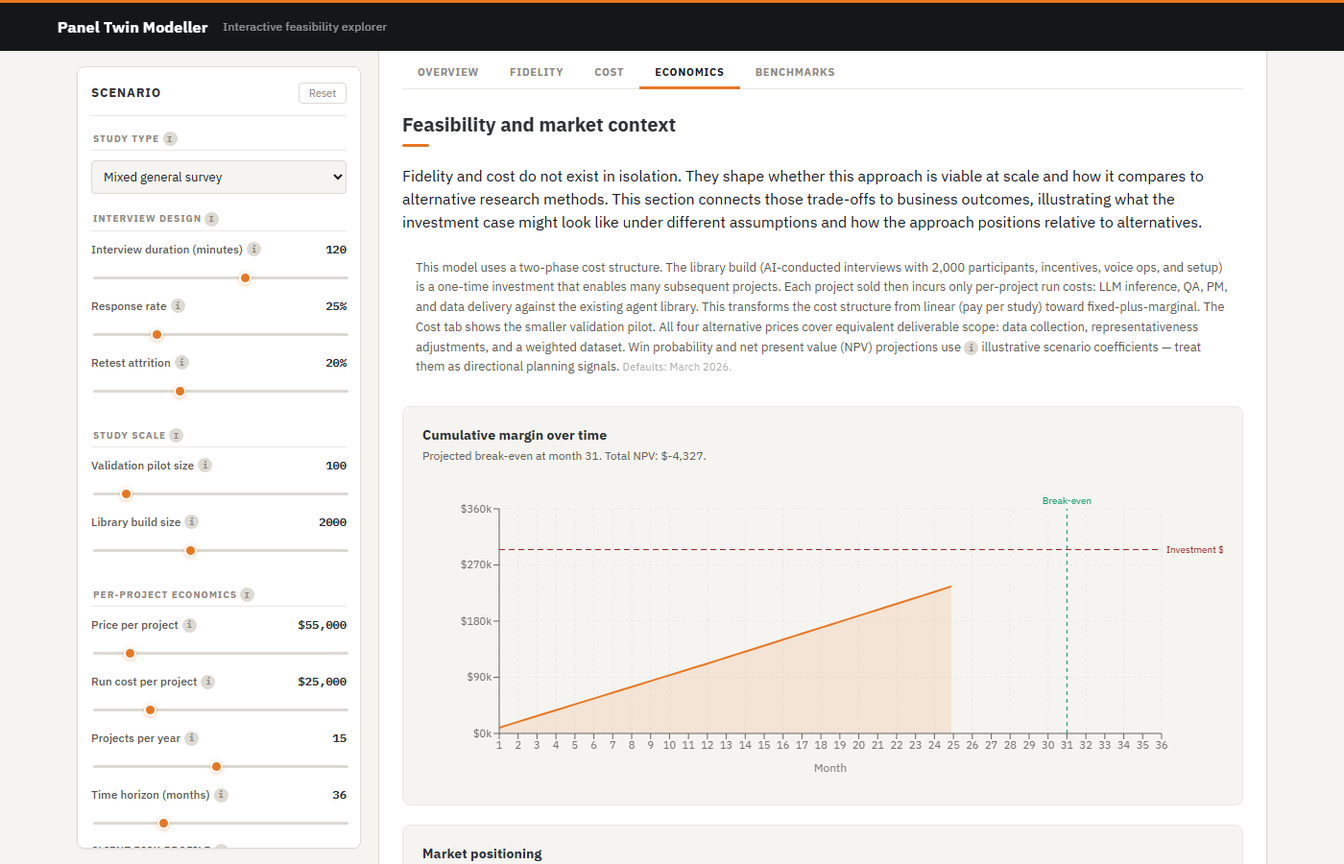
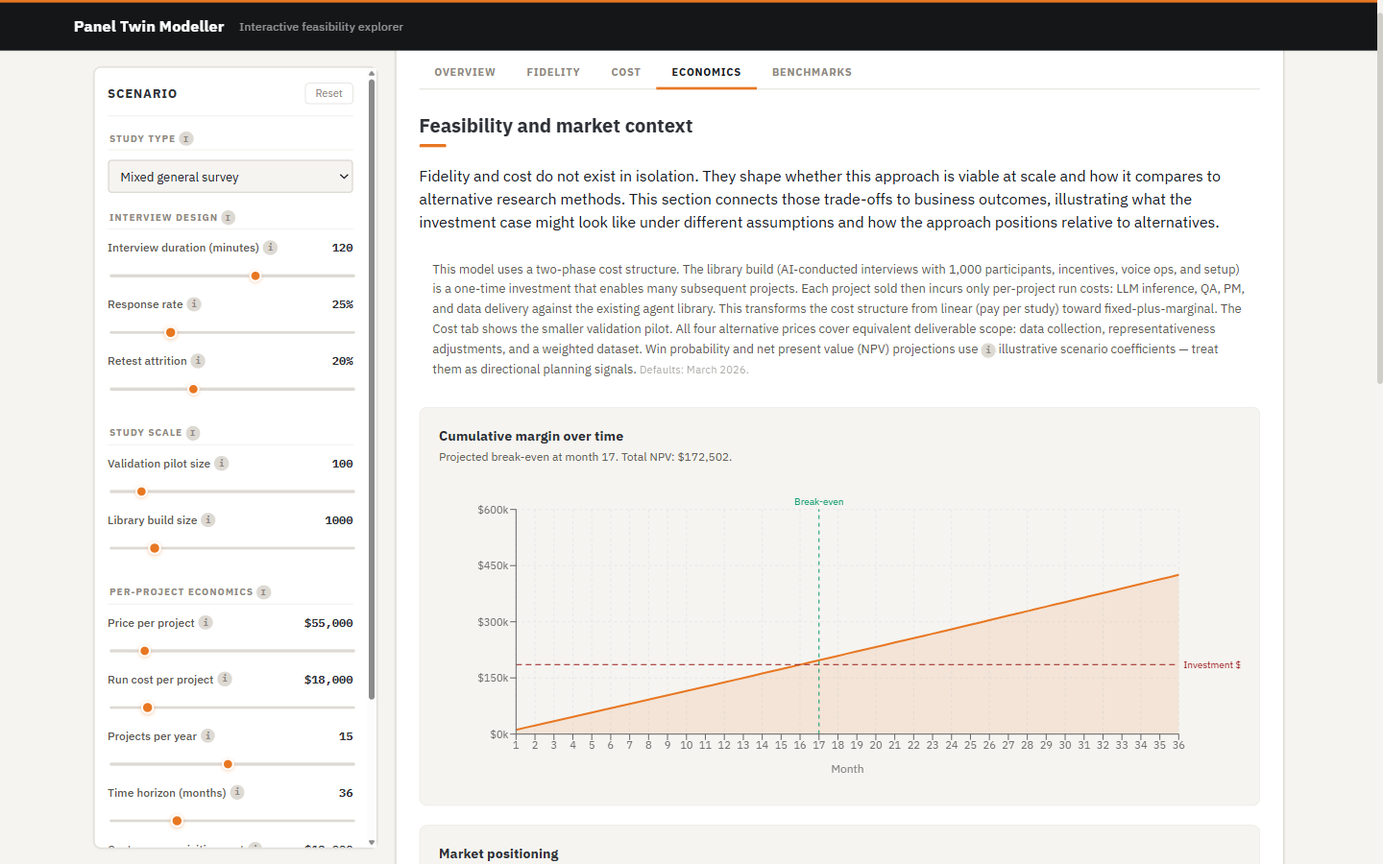
Expose hidden params as sliders, recalibrate defaults, fix tooltips (v0.2.9)
Default recalibrations: scaleup_n 2000→1000, per_project_run_cost $25K→$18K,
cac $20K→$12K. Split total_labor_cost into pilot_labor_cost ($15K) and
library_labor_cost ($45K) with mode-aware selection in costModel.ts.

Seven previously hidden parameters now have sliders: cac, retest_rate,
discount_rate, growth_rate, churn_rate, brand_trust, cannibalization_rate.
Added Financial assumptions fieldset; renamed Market benchmarks → Market context.

Tooltip fixes: labor sliders (removed misleading scaling/IRB copy), per-interview
costs (disclose $20/participant in fixed hidden costs), run cost (removed stale
range), EconomicsTab note (discount rate now configurable in Advanced).

Stale landing page copy corrected: Insight 4 library size 2000→1000 with
corrected savings figures; Insight 6 margin ~55%→~67%. Hero screenshot updated.

diff --git a/docs-app/src/components/ExecutiveLanding.tsx b/docs-app/src/components/ExecutiveLanding.tsx
@@ -13,31 +13,31 @@ interface InsightDef {
 const INSIGHTS: InsightDef[] = [
   {
     title: "Participant incentives dominate build cost — compute is nearly free",
-    summary: "At 2,000 participants, incentives alone total $178K out of a ~$275K library build. LLM inference for those same 2,000 interviews costs roughly $220. The binding constraint is human compensation, not technology.",
+    summary: "At 1,000 participants, incentives alone total $89K out of a ~$174K library build. LLM inference for those same 1,000 interviews costs roughly $111. The binding constraint is human compensation, not technology.",
     methodology: [
-      "Incentive structure: $60 Phase 1 interview + ($30 × 0.8 retest rate) Phase 2 + $5 bonus = $89 per participant. At 2,000 participants: $178,000 — roughly 64% of the total library build cost.",
-      "LLM inference for 2,000 interviews at 117 turns each: roughly $222 total at $0.003/1K input, $0.012/1K output tokens. Voice ops (automatic speech recognition and text-to-speech, at $0.027/min × 120 min) add $6,480. Staff cost (lump sum, $18,000 default) adds a flat amount per study run — adjust in Advanced settings.",
-      "Per-project run cost once the library exists: LLM inference to run a 50-item survey through 2,000 agents costs roughly $300–500. At loaded labor rates for QA, PM, and data delivery, total run cost is estimated at $20,000–30,000 — about 7–11% of the library build cost.",
+      "Incentive structure: $60 Phase 1 interview + ($30 × 0.8 retest rate) Phase 2 + $5 bonus = $89 per participant. At 1,000 participants: $89,000 — roughly 51% of the total library build cost.",
+      "LLM inference for 1,000 interviews at 117 turns each: roughly $111 total at $0.003/1K input, $0.012/1K output tokens. Voice ops (ASR and TTS, at $0.027/min × 120 min) add $3,240. Staff cost for the library build ($45,000 default) and overhead together add ~$59K flat — adjust in Advanced settings.",
+      "Per-project run cost once the library exists: LLM inference to run a 50-item survey through 1,000 agents costs roughly $150–250. At loaded labor rates for QA, PM, and data delivery, total run cost is estimated at $18,000 (default) — about 10% of the library build cost.",
       "Implication: the technology cost curve is not the binding constraint. LLM price changes have minimal impact on the investment case. Response rate and incentive levels have major impact. Scale decisions (how many participants) are primarily a human cost question.",
     ],
   },
   {
     title: "The cost structure transforms from linear to fixed-plus-marginal",
-    summary: "Traditional survey research charges per-study fees for every project. Panel Twin separates a one-time library build (~$275K for 2,000 participants) from a lower marginal per-project run cost (~$25K). This is the same cost-structure shift that distinguishes SaaS from consulting.",
+    summary: "Traditional survey research charges per-study fees for every project. Panel Twin separates a one-time library build (~$174K for 1,000 participants) from a lower marginal per-project run cost (~$18K). This is the same cost-structure shift that distinguishes SaaS from consulting.",
     methodology: [
       "Library build cost covers AI-conducted interviews, participant incentives, voice infrastructure, agent construction, setup labor, and overhead. This is a capital investment charged once (or per refresh cycle), not per project.",
-      "Per-project run cost covers LLM inference, per-project QA, PM, and data delivery against the existing agent library. No new interviews or incentives. Default estimate: $25,000 per project at fully loaded labor rates.",
-      "With ~55% variable margin per project (at $55K price, $25K run cost), the break-even on the library investment depends on project volume over the library's useful life. At 6 projects/year, rough break-even is within 9–11 projects.",
+      "Per-project run cost covers LLM inference, per-project QA, PM, and data delivery against the existing agent library. No new interviews or incentives. Default estimate: $18,000 per project at fully loaded labor rates.",
+      "With ~67% variable margin per project (at $55K price, $18K run cost), the break-even on the library investment depends on project volume over the library's useful life. At default volume (15 projects/year), the investment recovers after roughly 5 projects won — about 17 months.",
       "The critical open question is library useful life: how many projects can run before agent profiles go stale and re-interviewing is needed. The model cannot answer this — it is an open empirical question. The NPV projections are conditional on the library remaining valid.",
     ],
   },
   {
     title: "Project volume is the primary NPV lever — not per-project margin",
-    summary: "Gross margin per project is decent (~55%), but win probability in a four-way market is only ~37%. At 15 projects pursued per year (the default), the investment breaks even around month 30. Cut that in half and break-even moves outside the 36-month horizon — volume matters more than what you charge per project.",
+    summary: "Gross margin per project is ~67%, but win probability in a four-way market is only ~36%. At 15 projects pursued per year (the default), the investment breaks even around month 17. Reduce to fewer than 7 projects/year and break-even moves outside the 36-month horizon — volume matters more than what you charge per project.",
     methodology: [
-      "Win probability ~37% in the default four-way market. Net-new fraction 70% (30% cannibalization). Per-project margin $30,000 ($55K price minus $25K run cost). At 15 projects pursued per year, expected monthly margin is roughly $9,700 before discounting. Over 36 months cumulative margin approaches $350,000 against ~$295,000 upfront, with break-even around month 30.",
-      "A non-probability panel at $5K captures ~39% of the market on price alone under the stylized utility coefficients. Panel Twin must win on quality and turnaround, not price. Since quality has the highest utility weight (3.2), this is achievable — but only if quality thresholds are cleared.",
-      "The model is sensitive to projects_per_year because wins scale linearly with volume but the upfront investment is fixed. Reducing to 8–10 projects per year moves break-even outside the 36-month horizon. Use the explorer to find the volume and pricing combination that makes the investment case work for your scenario.",
+      "Win probability ~36% in the default four-way market. Net-new fraction 70% (30% cannibalization). Per-project margin $37,000 ($55K price minus $18K run cost). At 15 projects pursued per year, expected monthly margin is roughly $11,500 before discounting. Over 36 months cumulative margin approaches $425,000 against ~$186,000 upfront, with break-even around month 17.",
+      "A non-probability panel at $5K captures ~40% of the market on price alone under the stylized utility coefficients. Panel Twin must win on quality and turnaround, not price. Since quality has the highest utility weight (3.2), this is achievable — but only if quality thresholds are cleared.",
+      "The model is sensitive to projects_per_year because wins scale linearly with volume but the upfront investment is fixed. Reducing to fewer than 7 projects per year moves break-even outside the 36-month horizon. Use the explorer to find the volume and pricing combination that makes the investment case work for your scenario.",
       "These projections use stylized market utility coefficients, not historical win/loss data. Actual win rates depend on client relationships, proposal quality, pricing negotiations, and factors not captured in a logit model. Treat NPV as a directional planning signal, not a forecast.",
     ],
   },
@@ -46,7 +46,7 @@ const INSIGHTS: InsightDef[] = [
     summary: "Quality improves logarithmically with interview length — the first hour contributes more than the second. For mixed general and behavioral recall surveys, most gain over a 30-minute baseline is captured by 60–90 minutes. Beyond 120 minutes, incremental quality is small while build cost keeps rising linearly.",
     methodology: [
       "Quality is modeled as base × log-linear adjustment relative to a 120-minute reference point (the genagents interview length). The log functional form reflects diminishing marginal returns on additional interview time. This is a modeling assumption; the actual sensitivity has not been directly measured for this construction approach.",
-      "Interview duration drives build cost linearly (voice ops at $0.027/min per participant). At 120 min vs. 90 min: $0.027 × 30 min = $0.81/participant, or $1,620 saved on a 2,000-person library. At 120 vs. 60 min: $3,240 saved. These are modest but real trade-offs.",
+      "Interview duration drives build cost linearly (voice ops at $0.027/min per participant). At 120 min vs. 90 min: $0.027 × 30 min = $0.81/participant, or $810 saved on a 1,000-person library. At 120 vs. 60 min: $1,620 saved. These are modest but real trade-offs.",
       "Under default settings (mixed general survey), the quality threshold is typically cleared well before 90 minutes. The threshold crossover depends on study type, memory architecture, and benchmark mode. Under federal settings, longer interviews provide more buffer above the stricter threshold.",
       "Extrapolating outside the 60–150 minute range carries higher uncertainty. Very short interviews (30 min) represent a significant departure from the paper anchor and should be treated as speculative.",
     ],
@@ -70,9 +70,9 @@ const INSIGHTS: InsightDef[] = [
   },
   {
     title: "The main uncertainty is now library longevity, not project margin",
-    summary: "With ~55% variable margin per project, the investment case is meaningful once the library is built. The dominant open question has shifted: how long does an agent library remain valid before agents need re-interviewing? The model tracks net present value (NPV) but cannot estimate agent shelf life.",
+    summary: "With ~67% variable margin per project, the investment case is meaningful once the library is built. The dominant open question has shifted: how long does an agent library remain valid before agents need re-interviewing? The model tracks net present value (NPV) but cannot estimate agent shelf life.",
     methodology: [
-      "At ~55% variable margin, win probability sensitivity has a meaningful but not dominant NPV impact. Small changes in win rate shift the timeline to break-even but do not change the direction of the investment case under reasonable assumptions.",
+      "At ~67% variable margin, win probability sensitivity has a meaningful but not dominant NPV impact. Small changes in win rate shift the timeline to break-even but do not change the direction of the investment case under reasonable assumptions.",
       "Library useful life is the dominant uncertainty. As real participants' views evolve over time, agent responses gradually diverge from what those participants would currently say. The rate of this divergence — and when it crosses a meaningful threshold — has no published estimates for this construction approach.",
       "The current model does not include refresh wave revenue or operational costs, because the trigger conditions for re-interviewing are not yet estimable. The cost of a partial re-interview campaign depends on how many agents need updating and whether source participants remain reachable.",
       "Monte Carlo simulations draw uncertainty from interview duration, response rate, and attrition. Library longevity uncertainty is not included because there is no distributional basis for it yet. This means the MC output understates total uncertainty for projections beyond 12–18 months.",
@@ -337,7 +337,7 @@ export function ExecutiveLanding({ onEnterExplorer }: Props) {
       <section className="landing-section">
         <h2>Headline numbers at default settings</h2>
         <p className="landing-section-intro">
-          120-minute AI voice interviews, mixed general survey (attitudes, opinions, and behavioral recall combined). The library build (2,000 participants) is a one-time investment. Per-project run cost reflects ongoing marginal cost once the library exists. All figures are model estimates at default parameter values — adjust the controls in the explorer to explore your scenario.
+          120-minute AI voice interviews, mixed general survey (attitudes, opinions, and behavioral recall combined). The library build (1,000 participants) is a one-time investment. Per-project run cost reflects ongoing marginal cost once the library exists. All figures are model estimates at default parameter values — adjust the controls in the explorer to explore your scenario.
         </p>
         <div className="landing-kpis">
           <div className="landing-kpi">
@@ -348,7 +348,7 @@ export function ExecutiveLanding({ onEnterExplorer }: Props) {
             <div className="landing-kpi-value">${Math.round(baseStats.libraryBuildCost / 1000)}k</div>
             <div className="landing-kpi-label">
               Library build cost{' '}
-              <Tooltip content={`One-time cost to interview 2,000 participants, construct their agents, and set up infrastructure. After this investment, projects run against the existing library at much lower marginal cost.`}>
+              <Tooltip content={`One-time cost to interview 1,000 participants, construct their agents, and set up infrastructure. After this investment, projects run against the existing library at much lower marginal cost.`}>
                 <span className="info-icon" aria-hidden="true">i</span>
               </Tooltip>
             </div>

diff --git a/docs-app/src/components/ScenarioControls.tsx b/docs-app/src/components/ScenarioControls.tsx
@@ -125,7 +125,7 @@ export function ScenarioControls({
           min={5000} max={100000} step={1000}
           onChange={(v) => updateRevenue('per_project_run_cost', v)}
           format={money}
-          tooltip="Marginal cost of running one survey project against the existing library. Covers LLM inference, per-project QA, PM, and data delivery. No new interviews or participant incentives — those are part of the library build. Typically $20,000–$30,000 per project."
+          tooltip="Marginal cost of running one survey project against the existing library. Covers LLM inference, per-project QA, PM, and data delivery. No new interviews or participant incentives — those are part of the library build."
         />
         <Slider
           label="Projects per year"
@@ -140,6 +140,14 @@ export function ScenarioControls({
           min={6} max={120} step={3}
           onChange={(v) => updateRevenue('horizon_months', v)}
           tooltip="How far forward the NPV model projects. 36 months is the default. Longer horizons increase uncertainty."
+        />
+        <Slider
+          label="Customer acquisition cost"
+          value={cfg.revenue.cac}
+          min={0} max={100000} step={1000}
+          onChange={(v) => updateRevenue('cac', v)}
+          format={money}
+          tooltip="One-time cost to acquire the initial client base before the library is operational — marketing, sales, partnership setup, and business development. Added to the library build cost in the total upfront investment used for NPV and break-even calculations."
         />
         <div className="control-group-row">
           <label className="select-field">
@@ -166,10 +174,18 @@ export function ScenarioControls({
         <fieldset className="control-group">
           <legend>
             Per-interview costs{' '}
-            <Tooltip content="Costs incurred per participant interviewed. These apply at both the validation pilot and the library build — the total scales with the number of participants in each. For non-standard 2-hour AI voice protocols, probability panels typically do not bundle incentives into a flat per-complete rate, so incentives are paid separately by the project operator.">
+            <Tooltip content="Costs incurred per participant interviewed. These apply at both the validation pilot and the library build — the total scales with the number of participants in each. For non-standard 2-hour AI voice protocols, probability panels typically do not bundle incentives into a flat per-complete rate, so incentives are paid separately by the project operator. Other fixed per-participant assumptions not shown here: $5 bonus expected value, $5 transcript cleaning, $2 summarization, $8 storage and compliance — totaling $20 per participant in addition to incentives.">
               <span className="info-icon" aria-hidden="true">i</span>
             </Tooltip>
           </legend>
+          <Slider
+            label="Retest rate"
+            value={cfg.retest_rate}
+            min={0} max={1} step={0.05}
+            onChange={(v) => update('retest_rate', Number(v.toFixed(2)))}
+            format={pct}
+            tooltip="Fraction of initial interview participants who complete the retest wave. The retest validates agent fidelity by re-administering survey items to human participants and comparing their responses to the agents. At 80% (default), 800 of 1,000 library build participants complete the retest, each receiving the retest incentive. Lower retest rates reduce cost but weaken fidelity validation."
+          />
           <Slider
             label="Interview incentive"
             value={cfg.cost.base_incentive_phase1}
@@ -199,17 +215,25 @@ export function ScenarioControls({
         <fieldset className="control-group">
           <legend>
             Staff and overhead{' '}
-            <Tooltip content="Staff cost and overhead apply to each study run — both the validation pilot (visible in the Cost tab) and the library build (visible in the Economics tab). They are flat per-study costs, not per-participant. The two ad-hoc cost fields below are separate catch-all buckets: pilot ad-hoc costs appear only in the Cost tab pilot view; library build ad-hoc costs appear in the Cost tab library view and are also added to the total upfront investment in the Economics tab NPV model.">
+            <Tooltip content="Staff costs are set separately for the validation pilot and the library build, since each represents a different scope of work. Both are flat lump-sum amounts, not per-participant. The overhead rate applies to non-labor direct costs in both phases. The two ad-hoc cost fields below are separate catch-all buckets: pilot ad-hoc costs appear only in the Cost tab pilot view; library build ad-hoc costs appear in the Cost tab library view and are added to total upfront investment in the Economics tab NPV model.">
               <span className="info-icon" aria-hidden="true">i</span>
             </Tooltip>
           </legend>
           <Slider
-            label="Total staff cost"
-            value={cfg.cost.total_labor_cost}
-            min={0} max={150000} step={1000}
-            onChange={(v) => updateCost('total_labor_cost', v)}
+            label="Staff cost (pilot)"
+            value={cfg.cost.pilot_labor_cost}
+            min={0} max={80000} step={500}
+            onChange={(v) => updateCost('pilot_labor_cost', v)}
             format={money}
-            tooltip="Your total estimated staff cost for the study — PM, protocol design, engineering, QA, and IRB compliance combined. Applied per study run (both pilot and library build). Enter as a lump dollar amount at your organization's rates."
+            tooltip="Your total estimated staff cost for the validation pilot — PM, protocol design, engineering, QA, and any ethics or compliance review. Covers the small validation run only, not the full library build. A flat lump sum at your organization's blended rates."
+          />
+          <Slider
+            label="Staff cost (library build)"
+            value={cfg.cost.library_labor_cost}
+            min={0} max={200000} step={1000}
+            onChange={(v) => updateCost('library_labor_cost', v)}
+            format={money}
+            tooltip="Your total estimated staff cost for the full library build — typically 3–4× the pilot figure, reflecting a larger participant count plus additional engineering, data pipeline, and compliance work for production deployment. A flat lump sum at your organization's blended rates."
           />
           <Slider
             label="Indirect / overhead rate"
@@ -234,6 +258,39 @@ export function ScenarioControls({
             onChange={(v) => updateRevenue('other_initial_investment', v)}
             format={money}
             tooltip="Any ad-hoc costs specific to the library build phase that do not fit the other categories — e.g., infrastructure setup, legal review, partnership agreements. Shown in the library build view of the Cost tab and added to total upfront investment in the Economics tab NPV model."
+          />
+        </fieldset>
+
+        <fieldset className="control-group">
+          <legend>
+            Financial assumptions{' '}
+            <Tooltip content="These parameters control the NPV model's financial structure. Discount rate sets the hurdle — future cash flows are worth less than today's dollars at this rate, so a higher rate reduces NPV for the same projected cash flows. Growth and churn set compound annual demand trends: at defaults (8% growth, 5% churn) they roughly offset each other, keeping projected demand approximately flat. Adjust them to model optimistic or pessimistic demand trajectories.">
+              <span className="info-icon" aria-hidden="true">i</span>
+            </Tooltip>
+          </legend>
+          <Slider
+            label="Discount rate (hurdle rate)"
+            value={cfg.revenue.discount_rate}
+            min={0.04} max={0.30} step={0.01}
+            onChange={(v) => updateRevenue('discount_rate', Number(v.toFixed(2)))}
+            format={pct}
+            tooltip="Annual discount rate applied to future cash flows in the NPV calculation. Represents your cost of capital or required return threshold. At 12% (default), a dollar earned 36 months from now is worth roughly $0.70 today. Higher rates penalize longer payback periods more heavily."
+          />
+          <Slider
+            label="Annual revenue growth"
+            value={cfg.revenue.growth_rate}
+            min={0} max={0.5} step={0.01}
+            onChange={(v) => updateRevenue('growth_rate', Number(v.toFixed(2)))}
+            format={pct}
+            tooltip="Compound annual growth applied to project demand in the NPV model. At 8% (default), year-3 demand is roughly 26% higher than year-1 before churn is applied. Represents market expansion or increasing project volume over time."
+          />
+          <Slider
+            label="Annual client churn"
+            value={cfg.revenue.churn_rate}
+            min={0} max={0.4} step={0.01}
+            onChange={(v) => updateRevenue('churn_rate', Number(v.toFixed(2)))}
+            format={pct}
+            tooltip="Compound annual decay applied to project demand in the NPV model. At 5% (default), year-3 demand is roughly 14% lower than year-1 before growth is applied. At default settings, growth and churn roughly cancel, keeping demand approximately flat across the 36-month horizon."
           />
         </fieldset>
 
@@ -306,11 +363,26 @@ export function ScenarioControls({
 
         <fieldset className="control-group">
           <legend>
-            Market benchmarks{' '}
-            <Tooltip content="Stylized defaults for alternative-approach pricing, quality, and turnaround. All prices represent full-service project scope at equivalent deliverables: data collection or generation, representativeness adjustments, and a weighted dataset. Custom analysis and reporting are not included in any of the four prices. Adjust to reflect your actual landscape.">
+            Market context{' '}
+            <Tooltip content="Competitive positioning assumptions for Panel Twin and stylized defaults for alternative approaches. All benchmark prices represent full-service project scope: data collection or generation, representativeness adjustments, and a weighted dataset — custom analysis and reporting excluded. Adjust all figures to reflect your actual landscape. Fixed defaults not shown: Panel Twin turnaround 10 days, probability benchmark 18 days, hybrid 12 days, non-prob panel 3 days; market tailwind 10%.">
               <span className="info-icon" aria-hidden="true">i</span>
             </Tooltip>
           </legend>
+          <Slider
+            label="Brand trust"
+            value={cfg.competition.brand_trust}
+            min={0} max={1} step={0.01}
+            onChange={(v) => updateCompetition('brand_trust', Number(v.toFixed(2)))}
+            tooltip="Your organization's perceived credibility on a 0–1 scale, used as a positive term in Panel Twin's utility calculation. Higher trust increases win probability. Competitors have no brand term — their prices and quality carry their full positioning. Reflect your honest assessment of how established your brand is in the research market."
+          />
+          <Slider
+            label="Cannibalization rate"
+            value={cfg.competition.cannibalization_rate}
+            min={0} max={1} step={0.01}
+            onChange={(v) => updateCompetition('cannibalization_rate', Number(v.toFixed(2)))}
+            format={pct}
+            tooltip="Fraction of Panel Twin revenue that displaces existing revenue rather than creating net-new revenue. At 30% (default), 30 cents of every dollar earned replaces existing business. The NPV model scales monthly margin by (1 − cannibalization rate). Set higher if your organization currently runs traditional panels that Panel Twin would partially replace."
+          />
           <Slider
             label="Probability benchmark price"
             value={cfg.competition.probability_benchmark_price}

diff --git a/docs-app/src/model/params.ts b/docs-app/src/model/params.ts
@@ -34,7 +34,8 @@ export interface CostParams {
   transcript_cleaning_cost_per_participant: number;
   summarization_cost: number;
   storage_security_compliance_cost_per_participant: number;
-  total_labor_cost: number;
+  pilot_labor_cost: number;
+  library_labor_cost: number;
   overhead_rate: number;
   other_pilot_cost: number;
   retest_reschedule_fraction: number;
@@ -177,7 +178,8 @@ export const DEFAULT_COST: CostParams = {
   transcript_cleaning_cost_per_participant: 5.0,
   summarization_cost: 2.0,
   storage_security_compliance_cost_per_participant: 8.0,
-  total_labor_cost: 18000,
+  pilot_labor_cost: 15000,
+  library_labor_cost: 45000,
   overhead_rate: 0.12,
   other_pilot_cost: 0,
   retest_reschedule_fraction: 0.0,
@@ -220,7 +222,7 @@ export const DEFAULT_QUALITY: QualityParams = {
 export const DEFAULT_SAMPLING: SamplingParams = {
   recruitment_mode: "pilot",
   pilot_n: 100,
-  scaleup_n: 2000,
+  scaleup_n: 1000,
   target_strata: ["age", "gender", "race", "region", "education"],
   response_rate_by_stratum: { default: 0.22 },
   representativeness_penalty_max: 0.10,
@@ -236,11 +238,11 @@ export const DEFAULT_PRODUCT: ProductParams = {
 
 export const DEFAULT_REVENUE: RevenueParams = {
   price_per_project: 55000.0,
-  per_project_run_cost: 25000.0,
+  per_project_run_cost: 18000.0,
   projects_per_year: 15,
   growth_rate: 0.08,
   churn_rate: 0.05,
-  cac: 20000.0,
+  cac: 12000.0,
   other_initial_investment: 0.0,
   discount_rate: 0.12,
   horizon_months: 36,

diff --git a/docs-app/src/components/EconomicsTab.tsx b/docs-app/src/components/EconomicsTab.tsx
@@ -123,7 +123,7 @@ export function EconomicsTab({ cfg, results, mcEnabled, setMcEnabled }: Props) {
       </table>
 
       <p style={{ opacity: 0.65, fontSize: '0.88em', marginTop: 16 }}>
-        The NPV uses a {(cfg.revenue.discount_rate * 100).toFixed(0)}% annual discount rate (fixed assumption, not configurable here).
+        Discount rate, revenue growth, and churn rate are configurable in Advanced settings.
         The useful life of an agent library before re-interviewing is needed is unknown. See the Fidelity tab for discussion of agent profile drift.
       </p>
 

diff --git a/docs-app/src/model/costModel.ts b/docs-app/src/model/costModel.ts
@@ -110,7 +110,7 @@ export function computeCosts(cfg: ScenarioConfig): CostResult {
       cfg.cost.storage_security_compliance_cost_per_participant
     );
 
-  const labor = cfg.cost.total_labor_cost;
+  const labor = cfg.mode === 'pilot' ? cfg.cost.pilot_labor_cost : cfg.cost.library_labor_cost;
 
   const weighting = cfg.mode === 'scaleup' ? cfg.cost.weighting_raking_cost : 0.0;
   // Overhead applies to non-labor direct costs only. Staff cost is entered as a

diff --git a/docs/design_decisions.md b/docs/design_decisions.md
@@ -367,7 +367,7 @@ The revenue model runs a month-by-month NPV loop over `horizon_months` (default 
 - Demand scales with `projects_per_year`, `growth_rate` (0.08/year), and `churn_rate` (0.05/year)
 - Projects sold = demand × win_probability × net_new_fraction
 - Revenue per project = `price_per_project` (base price only; removed attachment rates in v0.2.8)
-- Total upfront investment = `cac` ($20K) + `other_initial_investment` ($0 default) + library build cost
+- Total upfront investment = `cac` ($12K default) + `other_initial_investment` ($0 default) + library build cost
 - NPV uses a 12% annual discount rate (`discount_rate`)
 
 These are scenario coefficients intended to make the investment case plannable. Actual win rates depend on client relationships, proposal quality, contracting factors, and market dynamics not captured in this model.
@@ -530,12 +530,46 @@ If a change only affects wording, styling, or minor implementation detail withou
 Items that are acknowledged, not urgent, and should not be forgotten.
 
 **Python config pricing divergence (low priority)**
-Both `configs/base.yaml` and `configs/federal_high_risk.yaml` still contain `price_per_project: 180000` — the pre-recalibration default. The React app defaults were updated to $55,000 in v0.2.2 to reflect a realistic pricing position below traditional probability panel benchmarks. The Python configs were not updated at that time because the Python model is treated as a reference implementation and the configs are not actively used in the public-facing flow. Before relying on the Python CLI for financial projections, these values should be updated to match the React app defaults ($55,000 price, $25,000 per-project run cost, $80,000/$60,000/$5,000 competitor prices).
+Both `configs/base.yaml` and `configs/federal_high_risk.yaml` still contain `price_per_project: 180000` — the pre-recalibration default. The React app defaults were updated to $55,000 in v0.2.2 to reflect a realistic pricing position below traditional probability panel benchmarks. The Python configs were not updated at that time because the Python model is treated as a reference implementation and the configs are not actively used in the public-facing flow. Before relying on the Python CLI for financial projections, these values should be updated to match the React app defaults ($55,000 price, $18,000 per-project run cost, $80,000/$60,000/$5,000 competitor prices).
 
 **Federal risk penalty has no effect on win probability (acknowledged, not a bug)**
 In the competition model, `federal_risk_penalty` is subtracted from all utility values equally. Because softmax is shift-invariant, this does not change relative win probabilities among the four competitors. The intended interpretation is that the penalty represents an overall market-level headwind rather than a Panel Twin-specific disadvantage. If the goal is to model Panel Twin specifically losing market share in federal settings (relative to established alternatives), the penalty would need to apply only to Panel Twin's utility. The current behavior is documented in the landing page insight card for federal settings.
 
 ## Version Updates
+
+### 0.2.9 - 2026-03-01
+
+Parameter defaults recalibrated, hidden parameters exposed as sliders, tooltip accuracy fixes, and stale landing page copy corrected.
+
+**Default parameter updates**
+- `scaleup_n` default: 2,000 → 1,000. The 2,000 figure was aspirational rather than a planning baseline; 1,000 is a more defensible starting point for an initial library build.
+- `per_project_run_cost` default: $25,000 → $18,000. The $25K figure overstated loaded run costs when labor is already captured in the library build phase; $18K better reflects per-project LLM inference, QA, PM, and data delivery.
+- `cac` default: $20,000 → $12,000. Lowered to a more conservative customer acquisition estimate consistent with a commercial research services context with prior relationships.
+- Split `total_labor_cost` (single field) into `pilot_labor_cost` ($15,000 default) and `library_labor_cost` ($45,000 default). `computeCosts()` now selects between the two based on `cfg.mode`. This prevents the library build from using the pilot's labor cost — previously, both cost views used the same lump sum, which understated library build labor by approximately 3×.
+
+**Hidden parameters exposed as sliders**
+Seven parameters that materially affect NPV, break-even, or win probability were previously hidden at fixed defaults with no UI access. All seven now have sliders:
+- `cac` (Customer acquisition cost) — added to Per-project economics section
+- `retest_rate` (Fraction of participants completing the retest wave) — added to Per-interview costs (Advanced)
+- `discount_rate` (Annual hurdle rate for NPV discounting)
+- `growth_rate` (Annual compound growth in project demand)
+- `churn_rate` (Annual compound decay in project demand)
+- `brand_trust` (Panel Twin's perceived credibility, 0–1 scale)
+- `cannibalization_rate` (Fraction of Panel Twin revenue displacing existing revenue rather than net-new)
+
+The last three appear in a new "Financial assumptions" fieldset and the "Market context" section (renamed from "Market benchmarks") within Advanced settings. Fixed defaults that were intentionally not exposed — `market_tailwind`, `turnaround_days`, competitor turnaround days — are now documented in the Market context fieldset tooltip instead.
+
+**Tooltip accuracy fixes**
+- Staff cost (pilot) tooltip: removed incorrect "IRB compliance combined" label; softened to "ethics or compliance review." Removed "Enter as a lump dollar amount" instruction (redundant with slider mechanics).
+- Staff cost (library build) tooltip: removed misleading "scaled for the larger participant count" language (the field is NOT auto-scaled; users must set it independently). Added typical range note ("typically 3–4× the pilot figure").
+- Per-interview costs fieldset tooltip: added disclosure of the $20/participant in fixed costs not surfaced as sliders ($5 bonus, $5 transcript cleaning, $2 summarization, $8 storage/compliance).
+- Run cost per project tooltip: removed stale "$20,000–$30,000 range" guidance (now an exposed slider, range is visible from the control itself).
+- EconomicsTab note: replaced "fixed assumption, not configurable here" with "configurable in Advanced settings" for discount rate, growth rate, and churn rate.
+- Market context fieldset tooltip: added documentation of the turnaround-day and market-tailwind defaults not exposed as sliders.
+
+**Landing page stale copy corrected**
+- Insight 4 methodology: "2,000-person library" → "1,000-person library"; savings figures corrected ($1,620/$3,240 → $810/$1,620) to match the updated `scaleup_n` default.
+- Insight 6 methodology: "~55% variable margin" → "~67% variable margin" to match the updated `per_project_run_cost` default ($18K instead of $25K at $55K price).
 
 ### 0.2.8 - 2026-03-01
 
